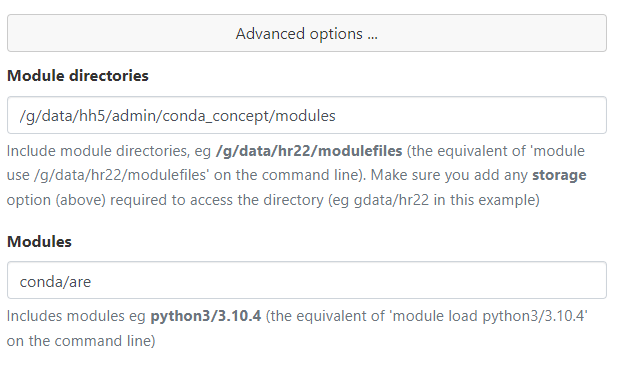
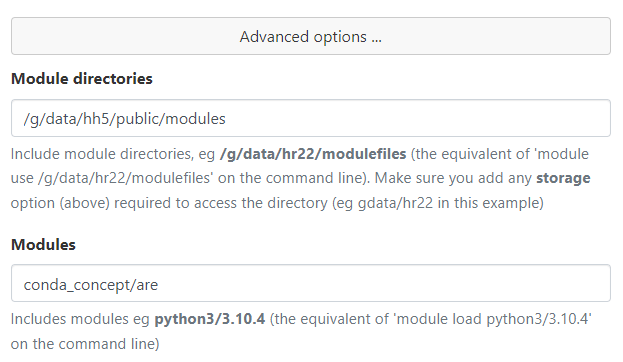
Updates to new conda page

diff --git a/Wiki/resources/resources-conda-setup.md b/Wiki/resources/resources-conda-setup.md
@@ -11,7 +11,7 @@ This page is structured with usage information first, then details on the setup 
 The `hh5` conda environment can be loaded in the same way the legacy environments are:
 ```
 $ module use /g/data/hh5/public/modules
-$ module load conda/analysis3-22.10
+$ module load conda_concept/analysis3-22.10
 ```
 The stable/unstable structure will continue to be maintained, with new unstable releases every 3 months, roughly coinciding with NCI maintenance periods. 
 ```{note}
@@ -30,7 +30,7 @@ A special module is provided for the ARE that allows interactive access to all c
 ### Python shbang line
 The `python3` symlink in an environment's script directory can be used as the shebang on a python script. For example:
 ```
-#!/g/data/hh5/public/apps/conda-scripts/analysis-22.10.d/bin/python3
+#!/g/data/hh5/public/apps/conda_scripts/analysis-22.10.d/bin/python3
 
 import sys
 import os
@@ -58,7 +58,7 @@ The containerised conda environment is comprised of the following components:
 * An install script designed to be run by a CI implementation that will install and update squashfs environments
 * An initialisation script that will create the base environment.
 
-All these components (apart from the squashfs themselves) can be found in the `cms-conda-singularity` repository on the coecms github.
+All these components (apart from the squashfs themselves) can be found in the [`cms-conda-singularity`](https://github.com/coecms/cms-conda-singularity) repository on the coecms github.
 
 ### Layout
 The above components are installed into the `/g/data/hh5/public` area as follows:
@@ -67,14 +67,14 @@ $ ls -l /g/data/hh5/public
 drwxrwxr-x+ 2 hh5_apps hh5  4096 Dec 14 22:31 apps
 drwxrwxr-x+ 2 hh5_apps hh5  4096 Dec 14 22:31 modules
 $ ls -l /g/data/hh5/public/apps
-drwxrwxr-x+ 2 hh5_apps hh5  4096 Dec 14 22:31 miniconda3
-drwxrwxr-x+ 2 hh5_apps hh5  4096 Dec 14 22:31 conda-scripts
+drwxrwxr-x+ 2 hh5_apps hh5  4096 Dec 14 22:31 cms_conda
+drwxrwxr-x+ 2 hh5_apps hh5  4096 Dec 14 22:31 conda_scripts
 ```
 ```{note}
 This is the ideal case, the file ownership displayed is contingent on the availability of a service user to use for software deployment. This caveat will apply every time the `hh5_apps` user appears on this page
 ```
 
-The `apps` directory contains the base, uncontainerised conda environment, the squashfs files containing each analysis environment (in the `miniconda3` subdirectory) and the machinery that enables commands to be executed inside the container as necessary (in the `conda-scripts` directory). The `modules` directory contains the environment modules needed to load the conda environments.
+The `apps` directory contains the base, uncontainerised conda environment, the squashfs files containing each analysis environment (in the `cms_conda` subdirectory) and the machinery that enables commands to be executed inside the container as necessary (in the `conda_scripts` directory). The `modules` directory contains the environment modules needed to load the conda environments.
 
 ### The launcher script
 The launcher script is designed to be the interface between the standard Gadi user environment and the contents of a conda environment squashfs file. It performs several checks in order to generate the correct `singularity` launcher line from outside the container or run the correct command directly if it is invoked from inside the container. Its workflow is as follows:
@@ -95,14 +95,14 @@ This conda environment is designed to be deployed and maintained entirely by a C
 Ensure that all settings in `install_config.sh` are correct. There are a handful of items that need hard-coded paths in the installation, and they will all be derived from the values in `install_config.sh`. Then install an analysis environment. If the base conda environment does not exist, it will be created when the first analysis environment is installed.
 
 ### Install a new analysis environment
-Ensure that `environment.yml` is correct and creates a valid conda environment. In `install_config.sh`, set `VERSION_TO_MODIFY` to a new value that does not exist in the current `envs` directory (e.g. 23.01 at time of writing). Push the updated `install_config.sh` to the repository. The new environment, including all modules and scripts, will be automatically created by Jenkins.
+Ensure that `environment.yml` is correct and creates a valid conda environment. In `install_config.sh`, set `VERSION_TO_MODIFY` to a new value that does not exist in the current `envs` directory (e.g. 23.01 at time of writing). Push the updated `install_config.sh` to the repository. The new environment, including all modules and scripts, will be automatically created by Github actions.
 
 ### Add a new package to an existing analysis environment
-Add the new package to the `environment.yml` file in the `scripts` directory in the repository. Test the installation by setting the `$CONDA_BASE` environment variable to the path of a test environment and run `install.sh`. If the tests pass interactively, push the updated `environment.yml` to the repository. The update to the production installation will be automatically deployed by Jenkins.
+Add the new package to the `environment.yml` file in the `scripts` directory in the repository. Test the installation by setting the `$CONDA_BASE` environment variable to the path of a test environment and run `install.sh`. If the tests pass interactively, push the updated `environment.yml` to the repository. The update to the production installation will be automatically deployed by Github actions.
 
 ### Update stable/unstable environment links/modules
 In `install_config.sh`, change the `STABLE_VERSION` and/or `UNSTABLE_VERSION` variables to the conda environments that are becoming the stable and unstable variants. Push the updated `install_config.sh`, the symlinks and module aliases will be 
-automatically updated by Jenkins. 
+automatically updated by Github actions. 
 ```{note}
 This will also trigger an update for the a analysis environment corresponding to the `VERSION_TO_MODIFY` variable.
 ```
@@ -110,7 +110,7 @@ This will also trigger an update for the a analysis environment corresponding to
 ### Revert a bad update
 In most cases, if an update fails, it will be discarded and the original retained. If the build and all tests pass, but a user discovers a problem after the new update is deployed, the old one is backed up in the `admin` directory. Restore it as follows:
 ```
-$ mv /g/data/hh5/admin/analysis-22.10.sqsh.bak /g/data/hh5/public/apps/miniconda3/envs/analysis-22.10.sqsh
+$ mv /g/data/hh5/admin/analysis-22.10.sqsh.bak /g/data/hh5/public/apps/cms_conda/envs/analysis-22.10.sqsh
 ```
 ```{warning}
 The backup must be *moved*, not copied. Using `mv` makes the change between environments atomic, whereas copying will cause a partially written squashfs to be present for the duration of the copy.
@@ -120,7 +120,7 @@ The backup must be *moved*, not copied. Using `mv` makes the change between envi
 
 The key difference between a standard conda environment setup and the `hh5` conda is the `envs` directory. In a standard conda environment setup, the envs directory contains a series of directories corresponding to each environment. Each of these directories is a fully self-contained environment, often comprising more than 250,000 individual files. Though these files are usually [hardlinked to central package caches](https://www.anaconda.com/blog/understanding-and-improving-condas-performance), this is not reflected in filesystem quotas. Each path to a hardlinked inode is treated as a separate inode for the purposes of quota enforcement. In the `hh5` environment, the `envs` directory appears as follows:
 ```
-$ ls -l /g/data/hh5/public/apps/miniconda3/envs
+$ ls -l /g/data/hh5/public/apps/cms_conda/envs
 lrwxrwxrwx  1 hh5_apps hh5         15 Dec 23 11:12 analysis3 -> analysis3-22.07
 lrwxrwxrwx  1 hh5_apps hh5         26 Dec 23 11:12 analysis3-22.07 -> /opt/conda/analysis3-22.07
 -rw-rwx---+ 1 hh5_apps hh5 8624431104 Dec 23 11:12 analysis3-22.07.sqsh
@@ -138,7 +138,7 @@ On loading an `analysis3-xx.yy` module (after running `module use /g/data/hh5/pu
 ```
 becomes
 ```
-/g/data/hh5/public/apps/conda-scripts/analysis3-22.10.d/bin
+/g/data/hh5/public/apps/conda_scripts/analysis3-22.10.d/bin
 ```
 The module also sets the `SINGULARITYENV_PREPEND_PATH` environment variable. This variable is modifies the linux `PATH` environment variable only within the container, and is required to ensure the `PATH` inside the container matches `PATH` outside of the container.
 
@@ -153,3 +153,6 @@ This means that conda environment has a fully compatible MPI distribution with t
 ```
 
 Some external programs are also linked into the scripts directory to modify their behaviour to take into account the containerised environments. For example `pbs_tmrsh`, if invoked when a conda environment is loaded, is modified to load the environment on the remote node before executing the command to be run. In time, `ssh` will also be modified to do this, however, this is significantly more complicated. There is a generic framework to add commands, remove OS packages and symlink `/apps` packages into the squashfs conda environments, determined by the contents of arrays in the `install_config.sh` file.
+
+## Known issues
+From time to time, the tests will fail with some package failing to import with `OSError` (without any other information on the type of error). If this occurs, wait a few minutes and rerun the tests from Github actions. I'm not sure what the cause is, but I suspect its a lustre synchronisation issue with large files. I have not been able to reproduce this issue consistently.
